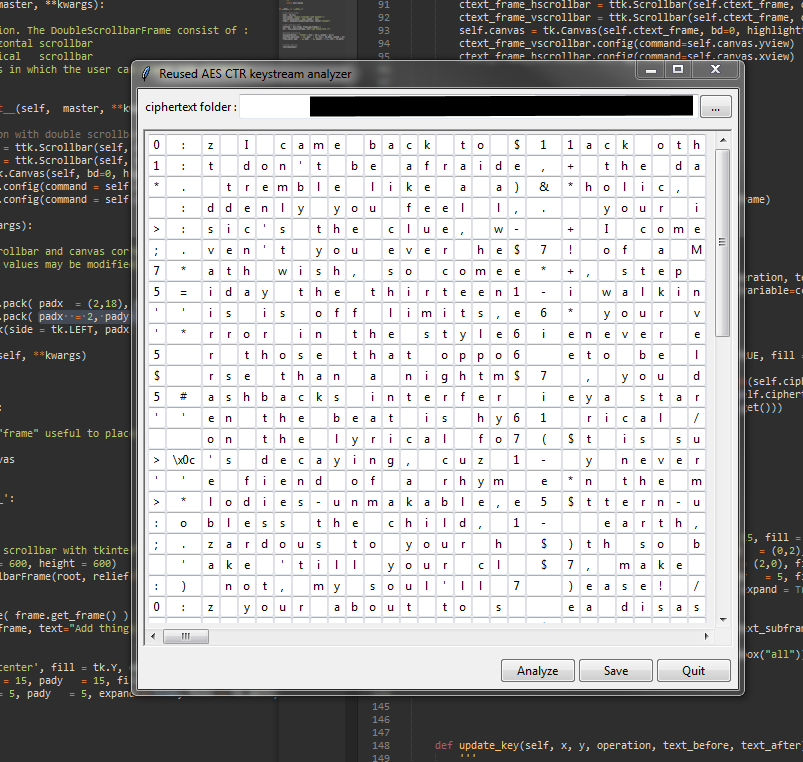
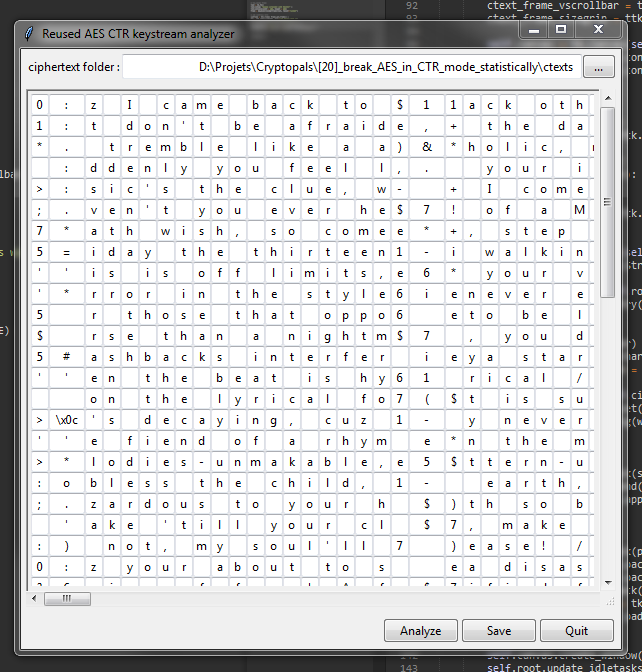
Add Sizegrip object
In the python script, there is now a sizegrip object for resizing windows.

diff --git a/_posts/2015-07-21-How-to-make-a-proper-double-scrollbar-frame-in-Tkinter.md b/_posts/2015-07-21-How-to-make-a-proper-double-scrollbar-frame-in-Tkinter.md
@@ -35,6 +35,7 @@ class DoubleScrollbarFrame(ttk.Frame):
 		# Canvas creation with double scrollbar
 		self.hscrollbar = ttk.Scrollbar(self, orient = tk.HORIZONTAL)
 		self.vscrollbar = ttk.Scrollbar(self, orient = tk.VERTICAL)
+		self.sizegrip = ttk.Sizegrip(self)
 		self.canvas = tk.Canvas(self, bd=0, highlightthickness=0, 
                                   yscrollcommand = self.vscrollbar.set,
                                   xscrollcommand = self.hscrollbar.set)
@@ -44,13 +45,12 @@ class DoubleScrollbarFrame(ttk.Frame):
 	def pack(self, **kwargs):
 		'''
 			Pack the scrollbar and canvas correctly in order to recreate the same
-      look as MFC's windows. The padding values may be modified depending on      the system's window manager.
+      look as MFC's windows. 
 		'''
 
-		self.hscrollbar.pack(padx=(2,18), pady=(0,2), side=tk.BOTTOM, 
-                                              fill=tk.X, expand=tk.FALSE)
-		self.vscrollbar.pack(padx=2, pady=(2,0), side=tk.RIGHT,
-                                              fill=tk.Y,  expand=tk.FALSE)
+		self.hscrollbar.pack(side=tk.BOTTOM, fill=tk.X, expand=tk.FALSE)
+		self.vscrollbar.pack(side=tk.RIGHT, fill=tk.Y,  expand=tk.FALSE)
+        self.sizegrip.pack(in_ = self.hscrollbar, side = tk.BOTTOM, anchor = "se")
 		self.canvas.pack(side=tk.LEFT, padx=5, pady=5,
                                              fill=tk.BOTH, expand=tk.TRUE)
 
